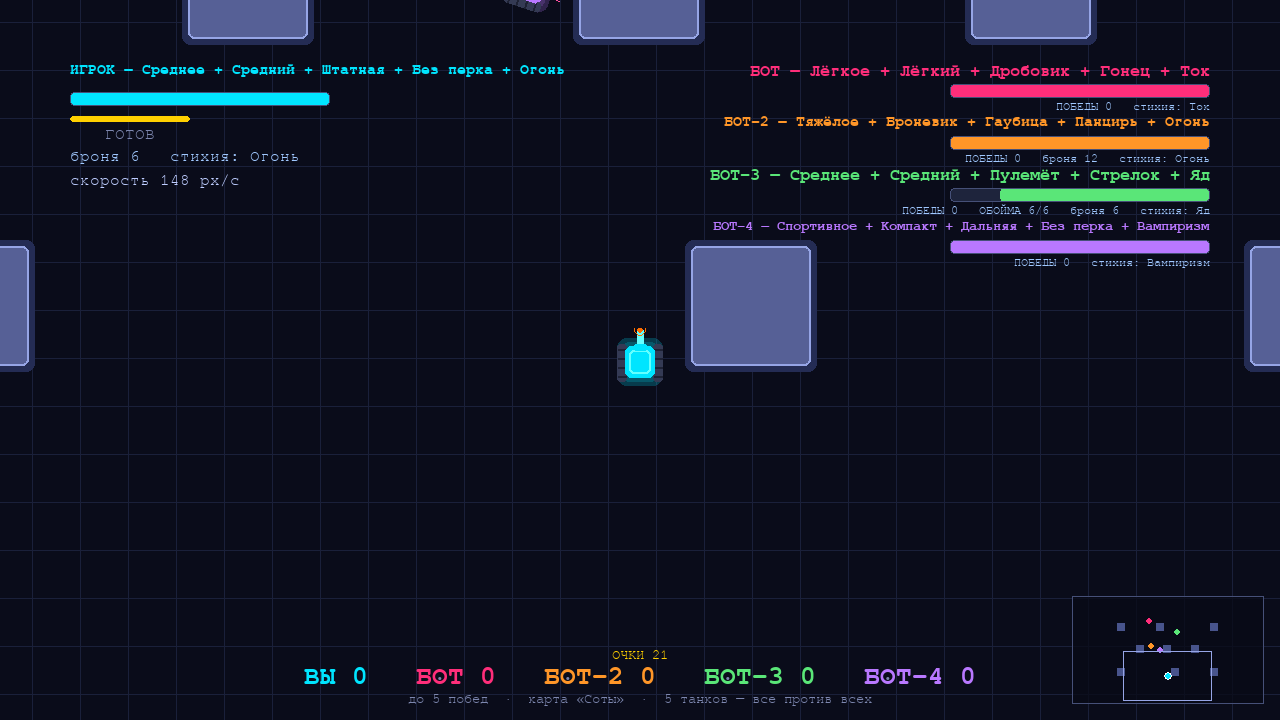
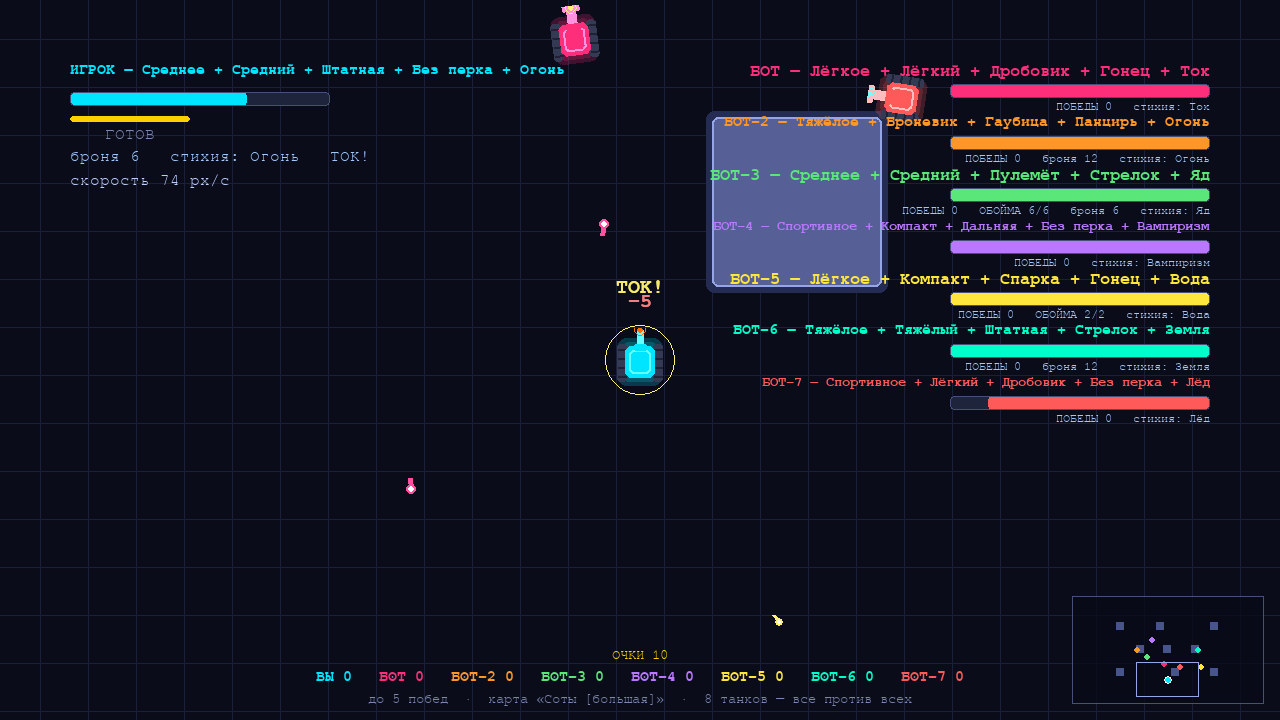
v2.7: БОЛЬШИЕ FFA — «каждый сам за себя» теперь на 6/7/8/9/10 танков (режимы 11-15, кнопки FFA×6…FFA×10 в меню вторым рядом с FFA). Большие FFA играют на КРУПНЫХ картах 3888x2187, танки — по широкому кольцу вокруг центра; у ботов 9 цветов и имена БОТ…БОТ-9; team_mode только у режимов 6-10 (FFA остаё

diff --git a/game.py b/game.py
@@ -285,11 +285,13 @@ class Game:
 
     # ================= создание боя =================
     def _tank_count(self):
-        """Сколько танков выезжает: в FFA номер режима = число танков,
-        в командах 6 = «2 на 2» (4 танка), 7 = «2 против босса» (3 танка),
+        """Сколько танков выезжает: в FFA номер режима = число танков
+        (2..5 и большие FFA v2.7: 11…15 → 6…10), в командах
+        6 = «2 на 2» (4 танка), 7 = «2 против босса» (3 танка),
         8 = «3 на 3» (6 танков), 9 = «4 на 4» (8 танков),
         10 = «5 на 5» (10 танков, v2.5)."""
-        return {6: 4, 7: 3, 8: 6, 9: 8, 10: 10}.get(self.mode, self.mode)
+        return {6: 4, 7: 3, 8: 6, 9: 8, 10: 10,
+                11: 6, 12: 7, 13: 8, 14: 9, 15: 10}.get(self.mode, self.mode)
 
     def _spawn_points(self, n):
         """Точки появления для n танков: 1вс1 — классика по краям, FFA —
@@ -299,7 +301,7 @@ class Game:
         cx, cy = self.arena.w / 2.0, self.arena.h / 2.0
         if n == 2:
             ring = [(cx - 520, cy), (cx + 520, cy)]
-        elif self.mode >= 6:
+        elif self.mode in (6, 7, 8, 9, 10):
             # командные режимы: наша команда — нижняя шеренга,
             # чужая — верхняя (сразу видно, кто с кем)
             if self.mode == 7:          # 2 против босса: нас двое, он один
@@ -319,10 +321,14 @@ class Game:
                        for j in range(foes_n)]
             ring = our_pts + foe_pts
         else:
+            # FFA-кольцо вокруг центра; v2.7: большие FFA (6-10 танков)
+            # стоят на КРУПНЫХ картах — радиус больше, чтобы по 240 px
+            # между танками оставалось и без рандомного раскидывания
+            rr = 380 if self.arena.w <= 3000 else 620
             ring = []
             for i in range(n):
                 a = math.radians(90 + i * 360.0 / n)   # игрок — снизу
-                ring.append((cx + math.cos(a) * 380, cy + math.sin(a) * 380))
+                ring.append((cx + math.cos(a) * rr, cy + math.sin(a) * rr))
         out = []
         for x, y in ring:
             out.append(self._free_spawn(x, y, out))
@@ -349,12 +355,14 @@ class Game:
 
     def _reset_round(self):
         # арена переразыгрывается КАЖДЫЙ РАУНД и перемешивается (v2.1);
-        # v2.5: командные режимы играют на КРУПНЫХ картах (3888x2187)
+        # v2.5: командные режимы играют на КРУПНЫХ картах (3888x2187);
+        # v2.7: большие FFA (6-10 танков) — на тех же крупных картах
         self.arena = Arena(random.randrange(len(LAYOUTS)), shuffle=True,
                            team=self.mode >= 6)
         cx, cy = self.arena.w / 2.0, self.arena.h / 2.0
         pts = self._spawn_points(self._tank_count())
-        self.team_mode = self.mode >= 6
+        # v2.7: команды — ТОЛЬКО режимы 6-10 (большие FFA 11-15 — каждый сам за себя)
+        self.team_mode = self.mode in (6, 7, 8, 9, 10)
         self.tank_team = {}
         self.player = Tank(
             pts[0][0], pts[0][1],
@@ -451,7 +459,8 @@ class Game:
         self.bot_builds = [random_build()
                            for _ in range(self._tank_count() - 1)]
         # в FFA счёт на каждого танка, в командах — на две стороны
-        self.score = [0] * (2 if self.mode >= 6 else self.mode)
+        self.score = [0] * (2 if self.mode in (6, 7, 8, 9, 10)
+                            else self._tank_count())
         self.round = 1
         self.points = 0.0
         self.score_mult = self._score_mult()   # жребий уже учтён в сборке
@@ -649,7 +658,8 @@ class Game:
                 self.state = "fight"
             elif k == pygame.K_a:
                 # выход в ангар: матч сбрасывается — сборка-то меняется
-                self.score = [0] * (2 if self.mode >= 6 else self.mode)
+                self.score = [0] * (2 if self.mode in (6, 7, 8, 9, 10)
+                                    else self._tank_count())
                 self.round = 1
                 self.state = "select"
             elif k == pygame.K_m:
@@ -658,7 +668,8 @@ class Game:
             if k == pygame.K_RETURN:
                 self.start_match()
             elif k == pygame.K_a:
-                self.score = [0] * (2 if self.mode >= 6 else self.mode)
+                self.score = [0] * (2 if self.mode in (6, 7, 8, 9, 10)
+                                    else self._tank_count())
                 self.round = 1
                 self.state = "select"   # в ангар за новой сборкой
             elif k == pygame.K_t:
@@ -739,7 +750,8 @@ class Game:
         elif kind == "p_resume":
             self.state = "fight"
         elif kind == "to_garage":                 # из паузы и из конца матча
-            self.score = [0] * (2 if self.mode >= 6 else self.mode)
+            self.score = [0] * (2 if self.mode in (6, 7, 8, 9, 10)
+                                else self._tank_count())
             self.round = 1
             self.state = "select"
             self.sounds.play("ric")
@@ -1302,16 +1314,16 @@ class Game:
         lines = [
             "W/S — вперёд и назад   A/D — поворот   Пробел — выстрел",
             "Q — стена   E — мина   Лазер + Веер = ЛАЗЕРНЫЙ ВЕЕР!",
-            "РЕЖИМЫ: 1вс1 · FFA до 5 · 2НА2 · 3НА3 · 4НА4 · 5НА5 · 2 ПРОТИВ БОССА (F2–F10).",
+            "РЕЖИМЫ: 1вс1 · FFA ДО 10 · 2НА2 · 3НА3 · 4НА4 · 5НА5 · 2 ПРОТИВ БОССА.",
             "Команды строятся шеренгами. 16 арен, рандом каждый раунд, камера и миникарта.",
             "После вашей смерти боты до 180 с выясняют победителя; кнопка отдаёт раунд случайному боту.",
             "Неуязвимости больше нет. Консоль читера — Ё (`), работает на любой раскладке.",
         ]
-        y = 310
+        y = 306
         for s in lines:
             img = get_font(21, bold=False).render(s, True, COL_DIM)
             self.screen.blit(img, img.get_rect(center=(SCREEN_W / 2, y)))
-            y += 34
+            y += 30
         # выбор сложности (1/2/3 или клик)
         y += 6
         img = get_font(20, bold=False).render("Сложность бота (1/2/3 или клик):",
@@ -1328,32 +1340,40 @@ class Game:
                              2, border_radius=7)
             self.screen.blit(img, r)
             self._click_zones.append((r.inflate(14, 12), "menu_diff", dkey))
-        # РЕЖИМ БОЯ (v2.1+): FFA, 2на2…5на5, 2 против босса.
-        # v2.5: кнопок 9 — раскладка динамическая, шрифт 16, зазор 16
-        y += 42
-        img = get_font(20, bold=False).render("Режим боя (клик или F2–F10):",
-                                              True, COL_DIM)
+        # РЕЖИМ БОЯ (v2.1+): два ряда кнопок (v2.7) — FFA и команды.
+        # раскладка динамическая, шрифт 16, зазор 16
+        y += 40
+        img = get_font(20, bold=False).render(
+            "Режим боя (клик; F2–F10 — первые девять):", True, COL_DIM)
         self.screen.blit(img, img.get_rect(midright=(SCREEN_W / 2 - 120, y)))
         mode_lbl = {2: "1×1", 3: "1×1×1", 4: "1×1×1×1", 5: "1×1×1×1×1",
-                    6: "2×2", 7: "2×БОСС", 8: "3×3", 9: "4×4", 10: "5×5"}
+                    6: "2×2", 7: "2×БОСС", 8: "3×3", 9: "4×4", 10: "5×5",
+                    11: "FFA×6", 12: "FFA×7", 13: "FFA×8",
+                    14: "FFA×9", 15: "FFA×10"}
         gap = 18
         fmode = get_font(16)
-        btns = [(fmode.render(mode_lbl[m], True,
-                              COL_GOLD if self.mode == m else (70, 80, 120)), m)
-                for m in (2, 3, 4, 5, 6, 7, 8, 9, 10)]
-        total = sum(im.get_width() for im, _ in btns) + gap * (len(btns) - 1)
-        bx = SCREEN_W / 2 - 100 + (724 - total) / 2.0   # полоса 540..1264
-        for im, m in btns:
-            r = im.get_rect(midleft=(bx, y))   # левый край ровно в bx
-            hov = r.inflate(14, 12).collidepoint(self._mouse)
-            pygame.draw.rect(self.screen, COL_P1 if hov else (40, 50, 90),
-                             r.inflate(14 if hov else 10, 12 if hov else 8),
-                             2, border_radius=7)
-            self.screen.blit(im, r)
-            self._click_zones.append((r.inflate(14, 12), "menu_mode", m))
-            bx += im.get_width() + gap
+
+        def mode_row(modes, yy):
+            btns = [(fmode.render(mode_lbl[m], True,
+                                  COL_GOLD if self.mode == m else (70, 80, 120)), m)
+                    for m in modes]
+            total = sum(im.get_width() for im, _ in btns) + gap * (len(btns) - 1)
+            bx = SCREEN_W / 2 - 100 + (724 - total) / 2.0   # полоса 540..1264
+            for im, m in btns:
+                r = im.get_rect(midleft=(bx, yy))   # левый край ровно в bx
+                hov = r.inflate(14, 12).collidepoint(self._mouse)
+                pygame.draw.rect(self.screen, COL_P1 if hov else (40, 50, 90),
+                                 r.inflate(14 if hov else 10, 12 if hov else 8),
+                                 2, border_radius=7)
+                self.screen.blit(im, r)
+                self._click_zones.append((r.inflate(14, 12), "menu_mode", m))
+                bx += im.get_width() + gap
+
+        mode_row((2, 3, 4, 5, 11, 12, 13, 14, 15), y)   # все против всех
+        y += 34
+        mode_row((6, 7, 8, 9, 10), y)                   # команды и босс
         # статистика матчей и рекорд
-        y += 42
+        y += 38
         st = "Побед: %d   Поражений: %d   Ничьих: %d   ·   Рекорд очков: %d" % (
             self.stats["wins"], self.stats["losses"], self.stats["draws"],
             self.stats.get("best_score", 0))
@@ -1368,7 +1388,7 @@ class Game:
             "или Enter / T — мышью можно нажать любую кнопку", True, COL_DIM)
         self.screen.blit(img, img.get_rect(center=(SCREEN_W / 2, y + 96)))
         # версия
-        img = get_font(16, bold=False).render("v2.6.2", True, (60, 66, 95))
+        img = get_font(16, bold=False).render("v2.7", True, (60, 66, 95))
         self.screen.blit(img, (SCREEN_W - 60, SCREEN_H - 34))
 
     # ================= тултипы ангарa =================
@@ -1978,8 +1998,9 @@ class Game:
             # --- FFA и команды: танки компактными строками справа ---
             for i, b in enumerate(self.bots):
                 self._bot_row(b, i, 62 + i * 52)
-            # победы цветными сегментами (низ по центру)
-            seg_f = get_font(26)
+            # победы цветными сегментами (низ по центру); при толпе
+            # (FFA 8-10, v2.7) шрифт мельче — полоса не налезает на края
+            seg_f = get_font(26 if len(self.tanks) <= 7 else 15)
             dot = seg_f.render(" · ", True, COL_DIM)
             if self.team_mode:
                 segs = [seg_f.render("КОМАНДА %d" % self.score[0], True, COL_P1),

diff --git a/scripts/smoke_test.py b/scripts/smoke_test.py
@@ -1627,6 +1627,79 @@ def test_emp_blast():
           and g7.bots[0].frozen_t == PU_FREEZE_TIME)
 
 
+# ---------- 3s4. БОЛЬШИЕ FFA v2.7: все против всех на 6..10 танков ----------
+def test_ffa_big():
+    """v2.7: режимы 11-15 — «каждый сам за себя» на 6/7/8/9/10 танков.
+    team_mode выключен, у каждого бота свой team-номер и цвет, счёт на
+    каждого танка, КРУПНАЯ карта, кольцо спавнов без слипаний."""
+    import math
+    from game import Game, get_font
+    from settings import MODE_NAMES, BOT_NAMES, SCREEN_W, TEAM_ARENA_W
+
+    for mode, n in ((11, 6), (12, 7), (13, 8), (14, 9), (15, 10)):
+        g = Game()
+        g.mode = mode
+        g.start_match()
+        g.state = "fight"
+        g._fake_keys = FakeKeys(())
+        check("FFA %d: название «%s»" % (n, MODE_NAMES[mode]),
+              "%d танков" % n in MODE_NAMES[mode])
+        check("FFA %d: танков %d, ботов %d" % (n, n, n - 1),
+              len(g.tanks) == n and len(g.bots) == n - 1)
+        check("FFA %d: не команда, враги — все боты" % n,
+              g.team_mode is False and len(g.foes) == n - 1)
+        check("FFA %d: счёт на каждого танка" % n, len(g.score) == n)
+        check("FFA %d: карта крупная %dx%d" % (n, g.arena.w, g.arena.h),
+              g.arena.w == TEAM_ARENA_W)
+        pts = [(t.x, t.y) for t in g.tanks]
+        ok_pts = all(math.hypot(x1 - x2, y1 - y2) > 200
+                     for i, (x1, y1) in enumerate(pts)
+                     for x2, y2 in pts[i + 1:])
+        check("FFA %d: все живы, спавны дальше 200 px" % n,
+              all(t.alive for t in g.tanks) and ok_pts)
+        check("FFA %d: team-номера уникальны" % n,
+              len(set(g.tank_team[t] for t in g.tanks)) == n)
+
+    # FFA на 8: добили всех ботов, кроме одного, — раунд за выжившим
+    g13 = Game()
+    g13.mode = 13
+    g13.start_match()
+    g13.state = "fight"
+    g13._fake_keys = FakeKeys(())
+    surv = g13.bots[3]
+    g13.player._die(g13.effects, g13.sounds)   # и игрок — иначе живых двое
+    for b in g13.bots:
+        if b is not surv:
+            b._die(g13.effects, g13.sounds)
+    g13.update(1 / 60.0)
+    check("FFA 8: остался один — раунд за выжившим ботом",
+          g13.state == "round_end"
+          and g13.winner == g13.tanks.index(surv)
+          and g13.score[g13.winner] == 1)
+
+    # FFA на 10: игрок умер — окно выяснения; кнопка — жребий
+    g15 = Game()
+    g15.mode = 15
+    g15.start_match()
+    g15.state = "fight"
+    g15._fake_keys = FakeKeys(())
+    g15.player._die(g15.effects, g15.sounds)
+    g15.update(1 / 60.0)
+    check("FFA 10: игрок умер — боты выясняют отношения",
+          g15.spectate_t > 0.0 and g15.state == "fight")
+    g15._kill_all_foes()
+    check("FFA 10: «УБИТЬ СРАЗУ» отдало раунд случайному боту",
+          g15.state == "round_end" and g15.winner > 0
+          and g15.score[g15.winner] == 1)
+
+    # полоса побед внизу при 10 танках влезает в экран (шрифт уже 15)
+    seg_w = sum(get_font(15).size(
+        "%s 0" % ("ВЫ" if i == 0 else BOT_NAMES[i - 1]))[0]
+        for i in range(10)) + 9 * get_font(15).size(" · ")[0]
+    check("FFA 10: полоса побед влезает в экран (%d px < %d)"
+          % (seg_w, SCREEN_W), seg_w < SCREEN_W - 40)
+
+
 # ---------- 3s. КОМАНДНЫЕ РЕЖИМЫ v2.2: 2 на 2 и 2 против БОССА ----------
 def test_team_modes():
     import math
@@ -2025,6 +2098,7 @@ if __name__ == "__main__":
     test_team_modes()
     test_team_highlight()
     test_emp_blast()
+    test_ffa_big()
     test_ice_immunity()
     test_big_teams()
     test_bigmap()

diff --git a/settings.py b/settings.py
@@ -355,6 +355,8 @@ DIFF_PRESETS = {
 # 2..5 — все против всех (игрок + N-1 ботов). 6 — 2 НА 2, 8 — 3 НА 3,
 # 9 — 4 НА 4, 10 — 5 НА 5: игрок с ботами-союзниками против команды ботов.
 # 7 — 2 ПРОТИВ БОССА: игрок + союзник против одного огромного босса.
+# v2.7 — большие FFA: 11…15 — «все против всех» на 6/7/8/9/10 танков
+# (на тех же КРУПНЫХ картах, что и команды).
 # Матч по-прежнему до ROUNDS_TO_WIN побед раунда.
 MODE_NAMES = {
     2: "1 на 1",
@@ -366,14 +368,26 @@ MODE_NAMES = {
     8: "3 на 3 — большой командный бой",
     9: "4 на 4 — полная батарея",
     10: "5 на 5 — вся рота",
+    11: "6 танков — все против всех",
+    12: "7 танков — все против всех",
+    13: "8 танков — все против всех",
+    14: "9 танков — все против всех",
+    15: "10 танков — все против всех",
 }
 BOT_COLORS = [              # цвета ботов (игрок всегда циан COL_P1)
     (255, 46, 122),         # розовый — классический «БОТ»
     (255, 150, 40),         # оранжевый
     (90, 230, 120),         # зелёный
     (185, 120, 255),        # фиолетовый
+    # v2.7: большие FFA (до 10 танков) — у каждого бота свой цвет
+    (255, 230, 60),         # жёлтый
+    (0, 255, 200),          # морская волна
+    (255, 90, 90),          # красный
+    (90, 140, 255),         # синий
+    (180, 180, 210),        # серый
 ]
-BOT_NAMES = ["БОТ", "БОТ-2", "БОТ-3", "БОТ-4", "БОТ-5", "БОТ-6", "БОТ-7"]
+BOT_NAMES = ["БОТ", "БОТ-2", "БОТ-3", "БОТ-4", "БОТ-5", "БОТ-6",
+             "БОТ-7", "БОТ-8", "БОТ-9"]
 
 # ----- Командные режимы (v2.2 + 3на3/4на4 v2.3) -----
 ALLY_COLOR = (0, 255, 170)  # бот-союзник в командных режимах (2на2, 3на3, 4на4)

diff --git a/scripts/make_screenshot.py b/scripts/make_screenshot.py
@@ -37,15 +37,18 @@ g.draw()
 pygame.image.save(g.screen, os.path.join(ROOT, "screenshot.png"))
 print("screenshot.png обновлён")
 
-# ----- кадр режима «все против всех» на 5 танков -----
-g.mode = 5
-g.score = [0] * g.mode
+# ----- кадр режима «все против всех» — БОЛЬШОЙ FFA на 8 танков (v2.7) -----
+g.mode = 13
+g.score = [0] * 8
 g.bot_builds = [("light", "light", "shotgun", "sprinter", "electric"),
                 ("heavy", "armored", "howitzer", "turtle", "fire"),
                 ("medium", "medium", "rapidgun", "gunner", "poison"),
-                ("sport", "compact", "long", "none", "vamp")]
+                ("sport", "compact", "long", "none", "vamp"),
+                ("light", "compact", "twin", "sprinter", "water"),
+                ("heavy", "heavy", "standard", "gunner", "earth"),
+                ("sport", "light", "shotgun", "none", "ice")]
 g._reset_round()
-g.arena = Arena(5)          # «Соты» — красиво для толпы
+g.arena = Arena(5, team=True)   # «Соты» на КРУПНОЙ карте — красиво для толпы
 g._fake_keys = type("K", (), {"__getitem__": staticmethod(lambda k: 0)})()
 for _ in range(300):        # полминуты боя: следы, снаряды, дым
     g.update(1 / 60.0)

diff --git a/arena.py b/arena.py
@@ -126,8 +126,8 @@ class Arena:
     def __init__(self, variant=0, shuffle=False, team=False):
         """shuffle=True — случайное зеркало и/или случайные баррикады:
         одна и та же карта каждый раз играет по-новому.
-        team=True — командная карта: крупнее обычной (v2.5), там много
-        танков и нужен разгон."""
+        team=True — БОЛЬШАЯ карта: крупнее обычной (v2.5), там много
+        танков; с v2.7 на них играют и большие FFA (6-10 танков)."""
         self.variant = variant % len(LAYOUTS)
         self.w, self.h = ((TEAM_ARENA_W, TEAM_ARENA_H) if team
                           else (ARENA_W, ARENA_H))
@@ -158,7 +158,7 @@ class Arena:
         self.obstacles = obs
         self.rects = self.walls + self.obstacles
         self.name = (MAP_NAMES[self.variant]
-                     + (" [командная]" if team else "")
+                     + (" [большая]" if team else "")
                      + (" ★" if tags else ""))
         self.dynamic = []   # живые препятствия (стены-барьеры), меняются в бою
         self._bg = self._make_background()

diff --git a/scripts/stress_ffa.py b/scripts/stress_ffa.py
@@ -63,6 +63,12 @@ if __name__ == "__main__":
     # — раунды длиннее, лимиты выше
     for m in (3, 4, 5):
         play_match(m, max_sec=1800)
+    # v2.7: большие FFA на КРУПНЫХ картах — 6/7/8/9/10 танков
+    play_match(11, max_sec=900)
+    play_match(12, max_sec=900)
+    play_match(13, max_sec=900)
+    play_match(14, max_sec=900)
+    play_match(15, max_sec=1200)
     # командные режимы на больших картах: 2на2, 3на3, 4на4, 5на5 и 2 против БОССА
     play_match(6, max_sec=900)
     play_match(8, max_sec=900)
